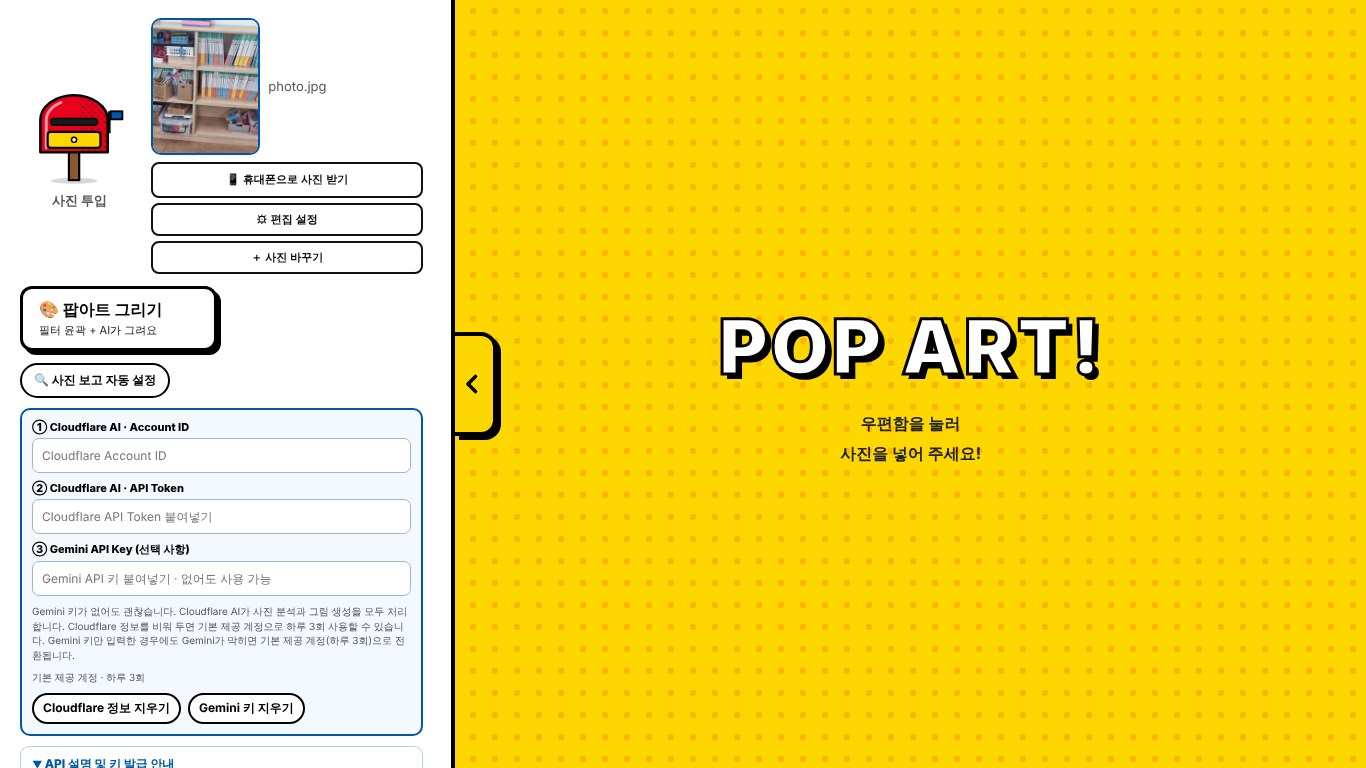
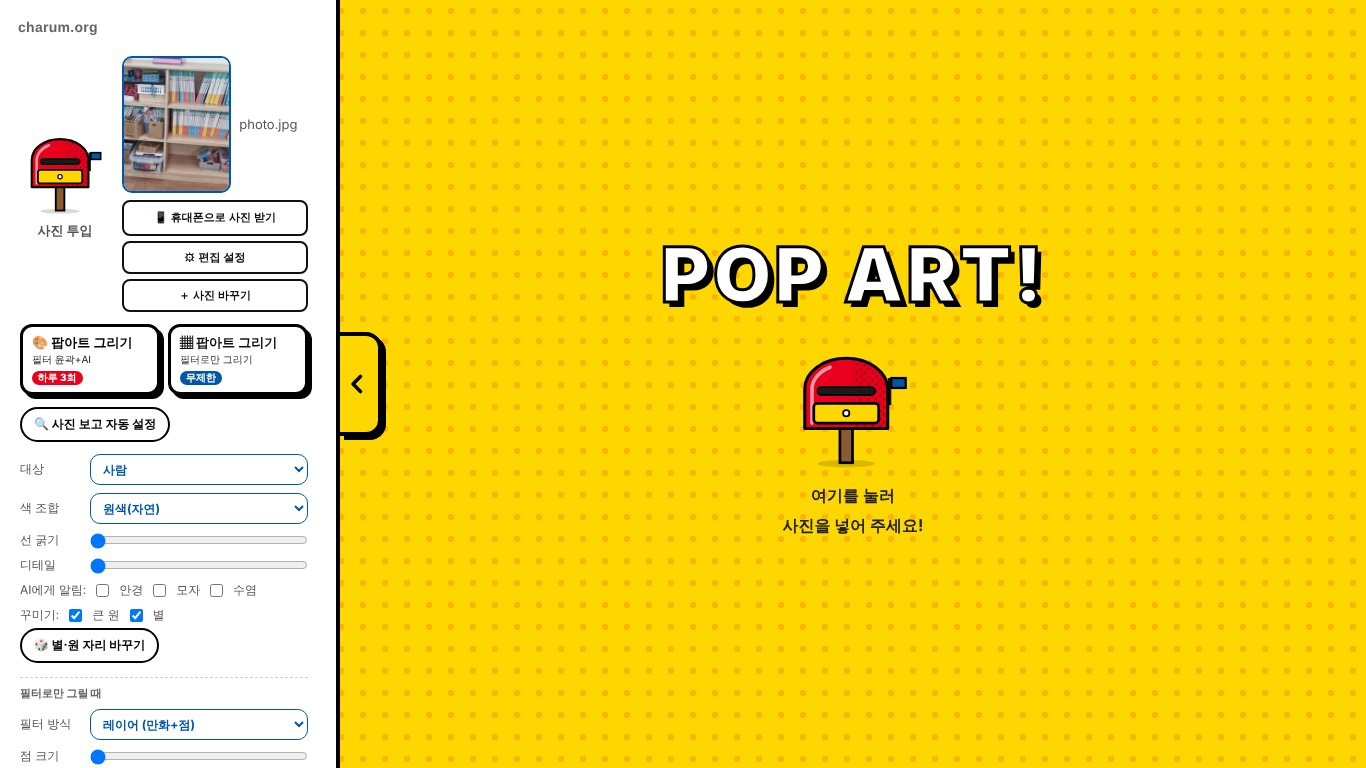
012 팝아트: 팝아트 단추 둘(AI 3회 / 필터 무제한) 나란히, 키 칸은 설정 아래 접어 둠
필터로만 그리기를 접힌 상자에서 꺼내 AI 단추 옆에 두어 바로 고를 수 있게 하고,
필터 설정은 다른 설정 아래에 모았다. Cloudflare 키 칸은 'AI로 3회 제한 없이 사용하려면'으로 접었다.
캡처 01을 새 화면으로 다시 찍었다.

Claude-Session: https://claude.ai/code/session_01Wjm5oceMavezZAmdN9gjDk

Changed region(s): [[0.0, 0.0, 0.369, 1.0], [0.4612, 0.3125, 0.8302, 0.7188], [0.0, 0.0312, 0.0615, 0.0625]]

diff --git a/012/popart.html b/012/popart.html
@@ -255,12 +255,11 @@ html, body { background-color:#FFD700; background-image:radial-gradient(circle, 
 .quick-actions button:hover { transform:translateY(-1px); }
 .cp-file { display:none !important; }
 .app.settings-open { grid-template-columns:340px minmax(0,1fr); }   /* 설정 창은 팝아트 단추 폭만큼 (2026-11-23) */
-.app.settings-open .control-panel > .mode-btns { grid-template-columns:1fr; }
 .app.settings-open .cp-head .mailbox-btn svg { width:84px; }
 .app.settings-open .control-panel { width:auto; padding:18px 20px; }
 .app.settings-open .control-panel > .mode-btns, .app.settings-open .control-panel > .opts { display:grid; animation:settingsFade .28s ease both; }
 .app.settings-open .control-panel > .smart { display:flex; animation:settingsFade .28s ease both; }
-.app.settings-open .control-panel > .filter-fold { display:block; animation:settingsFade .28s ease both; }
+.app.settings-open .control-panel > .key-fold { display:block; animation:settingsFade .28s ease both; }
 .app.settings-open .cp-head { flex-direction:row; align-items:center; }
 .app.settings-open .mailbox-btn svg { width:clamp(84px,13vmin,140px); }
 .app.settings-open .mailbox-description { display:none; }
@@ -307,8 +306,8 @@ html, body { background-color:#FFD700; background-image:radial-gradient(circle, 
 .api-credentials .credential-row { display:flex; flex-direction:column; gap:4px; }
 .api-credentials label { font-size:11px; font-weight:800; }
 .api-credentials input { width:100%; min-width:0; padding:9px; border:1px solid #9bb8d8; border-radius:7px; font:inherit; font-size:12px; background:#fff; }
-.gem-fold summary::before, .filter-fold summary::before { content:''; display:inline-block; width:0; height:0; margin-right:7px; vertical-align:1px; border-style:solid; border-width:5px 0 5px 8px; border-color:transparent transparent transparent currentColor; transition:transform .15s; }
-.gem-fold[open] summary::before, .filter-fold[open] summary::before { transform:rotate(90deg); }   /* 닫힘 ▶ · 열림 ▼ */
+.gem-fold > summary::before, .key-fold > summary::before { content:''; display:inline-block; width:0; height:0; margin-right:7px; vertical-align:1px; border-style:solid; border-width:5px 0 5px 8px; border-color:transparent transparent transparent currentColor; transition:transform .15s; }
+.gem-fold[open] > summary::before, .key-fold[open] > summary::before { transform:rotate(90deg); }   /* 닫힘 ▶ · 열림 ▼ */
 .cf-lead { font-size:12px; line-height:1.5; color:#123; background:#fff6c7; border-left:4px solid #FFD700; padding:7px 9px; border-radius:6px; }
 .cf-lead b { color:#0057A8; }
 .gem-fold summary { cursor:pointer; font-size:11px; font-weight:800; color:#444; list-style:none; padding:2px 0; }
@@ -320,13 +319,18 @@ html, body { background-color:#FFD700; background-image:radial-gradient(circle, 
 .ph-mailbox { margin:6px 0 -4px; transition:transform .15s; }
 .ph-mailbox svg { width:clamp(110px,16vmin,170px); height:auto; display:block; }
 #ph:hover .ph-mailbox { transform:translateY(-3px) rotate(-2deg); }
-.filter-fold { width:100%; border:1px dashed #9aa3ad; border-radius:10px; background:#fafafa; padding:0 10px; }
-.filter-fold summary { cursor:pointer; list-style:none; padding:9px 0; font-size:12px; font-weight:800; color:#333; }
-.filter-fold summary::-webkit-details-marker { display:none; }
-.filter-fold summary small { font-weight:400; color:#777; margin-left:4px; }
-.filter-fold[open] { padding-bottom:10px; }
-.filter-fold .ff-note { margin:0 0 8px; font-size:11px; color:#666; line-height:1.5; }
-.filter-fold .m-filter { width:100%; margin-bottom:10px; background:#fff; color:#111; }
+.key-fold { width:100%; border:1px solid #b8cde6; border-radius:10px; background:#fff; padding:0 10px; }
+.key-fold summary { cursor:pointer; list-style:none; padding:9px 0; font-size:12px; font-weight:800; color:#0057A8; }
+.key-fold summary::-webkit-details-marker { display:none; }
+.key-fold[open] { padding-bottom:10px; }
+.opts-cap { grid-column:1/-1; margin-top:6px; padding-top:8px; border-top:1px dashed #c9ced4; font-size:11px; font-weight:800; color:#666; }
+.app.settings-open .control-panel > .mode-btns { grid-template-columns:1fr 1fr; gap:8px; }   /* 팝아트 단추 둘 나란히(2026-11-25) */
+.mode-btns .mbtn { padding:7px 9px; gap:1px; }
+.mode-btns .mbtn b { font-size:13px; white-space:nowrap; }
+.mode-btns .mbtn small { font-size:10px; }
+.mode-btns .mbtn .lim { font-style:normal; font-size:10px; font-weight:800; align-self:flex-start; margin-top:3px; padding:0 6px; border-radius:999px; background:#E8001C; color:#fff; }
+.mode-btns .mbtn .lim.free { background:#0057A8; }
+.m-filter { background:#fff; color:#111; }
 .key-link { font-size:10px; font-weight:800; color:#0057A8; margin-left:4px; white-space:nowrap; }
 .gem-fold .credential-row { margin-top:6px; }
 #ai-route-info { font-size:10px; line-height:1.45; color:#555; }
@@ -493,34 +497,11 @@ html, body { background-color:#FFD700; background-image:radial-gradient(circle, 
       </div>
     </div>
     <div class="mode-btns">
-        <button class="mbtn m4" disabled onclick="generate('pop')"><b>🎨 팝아트 그리기</b><small>필터 윤곽 + AI가 그려요</small></button>
-      </div>
+      <button class="mbtn m4" disabled onclick="generate('pop')"><b>🎨 팝아트 그리기</b><small>필터 윤곽+AI</small><em class="lim">하루 3회</em></button>
+      <button class="mbtn m-filter" id="btn-filter" disabled onclick="generate('filter')"><b>▦ 팝아트 그리기</b><small>필터로만 그리기</small><em class="lim free">무제한</em></button>
+    </div>
     <div class="smart" style="width:100%;align-items:stretch;flex-direction:column;">
       <button class="chip" id="btn-detect" disabled onclick="autoDetect()" style="align-self:flex-start;">🔍 사진 보고 자동 설정</button>
-      <div class="api-credentials">
-        <div class="cf-lead"><b>Cloudflare 키가 있으면 제대로 쓸 수 있어요.</b><br>기본 계정은 하루 3회뿐. ①·②를 넣으면 마음껏 만들어요.</div>
-        <div class="credential-row">
-          <label for="cf-account-id">① Cloudflare AI · Account ID <a class="key-link" href="https://www.charum.org/study/doc.html?cloudflare_guide" target="_blank" rel="noopener noreferrer">Cloudflare 토큰 받는 법 ↗</a></label>
-          <input id="cf-account-id" type="text" autocomplete="off" spellcheck="false" placeholder="Cloudflare Account ID">
-        </div>
-        <div class="credential-row">
-          <label for="cf-api-token">② Cloudflare AI · API Token</label>
-          <input id="cf-api-token" type="password" autocomplete="new-password" spellcheck="false" placeholder="Cloudflare API Token 붙여넣기">
-        </div>
-        <small style="font-size:10px;color:#555;line-height:1.45;">비워 두면 기본 제공 계정으로 하루 3회 쓸 수 있어요. 사진 분석과 그림 그리기는 Cloudflare AI가 모두 해요.</small>
-        <small id="ai-route-info">기본 제공 계정 · 하루 3회</small>
-        <div style="display:flex;gap:7px;flex-wrap:wrap;">
-          <button type="button" class="chip" style="padding:5px 9px;" onclick="clearCloudflareCredentials()">Cloudflare 정보 지우기</button>
-        </div>
-        <details class="gem-fold">
-          <summary>③ Gemini API Key (선택 사항) <a class="key-link" href="https://www.charum.org/study/doc.html?gemini_guide" target="_blank" rel="noopener noreferrer">Gemini 키 받는 법 ↗</a></summary>
-          <div class="credential-row">
-            <input id="gemini-key" type="password" autocomplete="off" placeholder="Gemini API 키 붙여넣기 · 없어도 사용 가능" aria-label="Gemini API Key">
-            <small style="font-size:10px;color:#555;line-height:1.45;">없어도 괜찮아요. 넣으면 Gemini가 사진을 살펴보고, 막히면 Cloudflare로 넘어가요(①·②가 비어 있으면 기본 계정 하루 3회).</small>
-            <button type="button" class="chip" style="padding:5px 9px;align-self:flex-start;" onclick="clearGeminiKey()">Gemini 키 지우기</button>
-          </div>
-        </details>
-      </div>
     </div>
     <div class="opts">
       <label>대상 <select class="mode-select" id="target"><option value="person">사람</option><option value="object">사물</option></select></label>
@@ -535,20 +516,41 @@ html, body { background-color:#FFD700; background-image:radial-gradient(circle, 
         <input type="checkbox" id="L-big" checked> 큰 원
         <input type="checkbox" id="L-star" checked> 별
         <button class="chip" id="btn-shuffle" type="button" title="AI를 다시 부르지 않고 별·큰 원의 자리만 새로 섞어요">🎲 별·원 자리 바꾸기</button></label>
+      <div class="opts-cap">필터로만 그릴 때</div>
+      <label>필터 방식 <select class="mode-select" id="fstyle"><option value="layers">레이어 (만화+점)</option><option value="dots">단순 점</option></select></label>
+      <label>점 크기 <input type="range" id="dot" min="3" max="16" value="3"></label>
+      <label>점 많이 <input type="range" id="mix" min="0" max="10" value="0"></label>
+      <label class="wide">점 넣기:
+        <input type="checkbox" id="L-bg" checked> 바탕
+        <input type="checkbox" id="L-f1" checked> 얼굴1
+        <input type="checkbox" id="L-f2" checked> 얼굴2</label>
     </div>
-    <details class="filter-fold">
-      <summary>필터로 만들기 <small>AI를 쓸 수 없을 때</small></summary>
-      <p class="ff-note">AI 없이 이 기기에서 바로 만들어요. 횟수 제한이 없고, 설정을 바꾸면 바로 다시 그려요.</p>
-      <button class="mbtn m-filter" id="btn-filter" disabled onclick="generate('filter')"><b>▦ 필터로 그리기</b><small>AI 없이 바로 만들어요</small></button>
-      <div class="opts">
-        <label>필터 방식 <select class="mode-select" id="fstyle"><option value="layers">레이어 (만화+점)</option><option value="dots">단순 점</option></select></label>
-        <label>점 크기 <input type="range" id="dot" min="3" max="16" value="3"></label>
-        <label>점 많이 <input type="range" id="mix" min="0" max="10" value="0"></label>
-        <label class="wide">점 넣기:
-          <input type="checkbox" id="L-bg" checked> 바탕
-          <input type="checkbox" id="L-f1" checked> 얼굴1
-          <input type="checkbox" id="L-f2" checked> 얼굴2</label>
-      </div>
+    <details class="key-fold">
+      <summary>AI로 3회 제한 없이 사용하려면</summary>
+        <div class="api-credentials">
+          <div class="cf-lead"><b>Cloudflare 키가 있으면 제대로 쓸 수 있어요.</b><br>기본 계정은 하루 3회뿐. ①·②를 넣으면 마음껏 만들어요.</div>
+          <div class="credential-row">
+            <label for="cf-account-id">① Cloudflare AI · Account ID <a class="key-link" href="https://www.charum.org/study/doc.html?cloudflare_guide" target="_blank" rel="noopener noreferrer">Cloudflare 토큰 받는 법 ↗</a></label>
+            <input id="cf-account-id" type="text" autocomplete="off" spellcheck="false" placeholder="Cloudflare Account ID">
+          </div>
+          <div class="credential-row">
+            <label for="cf-api-token">② Cloudflare AI · API Token</label>
+            <input id="cf-api-token" type="password" autocomplete="new-password" spellcheck="false" placeholder="Cloudflare API Token 붙여넣기">
+          </div>
+          <small style="font-size:10px;color:#555;line-height:1.45;">비워 두면 기본 제공 계정으로 하루 3회 쓸 수 있어요. 사진 분석과 그림 그리기는 Cloudflare AI가 모두 해요.</small>
+          <small id="ai-route-info">기본 제공 계정 · 하루 3회</small>
+          <div style="display:flex;gap:7px;flex-wrap:wrap;">
+            <button type="button" class="chip" style="padding:5px 9px;" onclick="clearCloudflareCredentials()">Cloudflare 정보 지우기</button>
+          </div>
+          <details class="gem-fold">
+            <summary>③ Gemini API Key (선택 사항) <a class="key-link" href="https://www.charum.org/study/doc.html?gemini_guide" target="_blank" rel="noopener noreferrer">Gemini 키 받는 법 ↗</a></summary>
+            <div class="credential-row">
+              <input id="gemini-key" type="password" autocomplete="off" placeholder="Gemini API 키 붙여넣기 · 없어도 사용 가능" aria-label="Gemini API Key">
+              <small style="font-size:10px;color:#555;line-height:1.45;">없어도 괜찮아요. 넣으면 Gemini가 사진을 살펴보고, 막히면 Cloudflare로 넘어가요(①·②가 비어 있으면 기본 계정 하루 3회).</small>
+              <button type="button" class="chip" style="padding:5px 9px;align-self:flex-start;" onclick="clearGeminiKey()">Gemini 키 지우기</button>
+            </div>
+          </details>
+        </div>
     </details>
     <a class="report-link" href="https://www.charum.org/webapp/59987#write" target="_blank" rel="noopener" title="이 도구의 오류나 의견을 게시판 댓글로 남겨요">💬 오류·의견 알리기</a>
   </div>
@@ -726,7 +728,7 @@ function closePanel(force) {
   document.getElementById('panel-toggle').setAttribute('aria-expanded', 'false');
 }
 function keyNudge() {                          // 기본 계정 3회를 다 쓰면: 설정 창을 열고 Cloudflare 칸을 노랗게 짚음
-  openPanel();
+  openPanel(); document.querySelector('.key-fold').open = true;
   const box = document.querySelector('.api-credentials'), id = document.getElementById('cf-account-id');
   box.classList.remove('key-nudge'); void box.offsetWidth; box.classList.add('key-nudge');
   box.scrollIntoView({ behavior: 'smooth', block: 'center' }); setTimeout(() => id.focus({ preventScroll: true }), 400);
